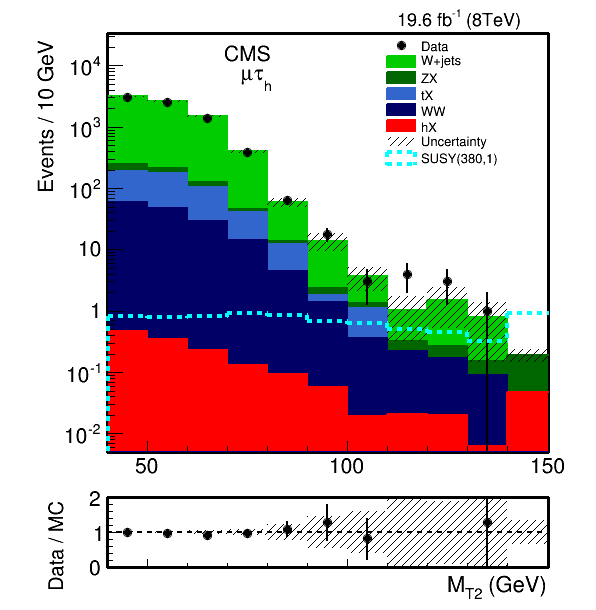
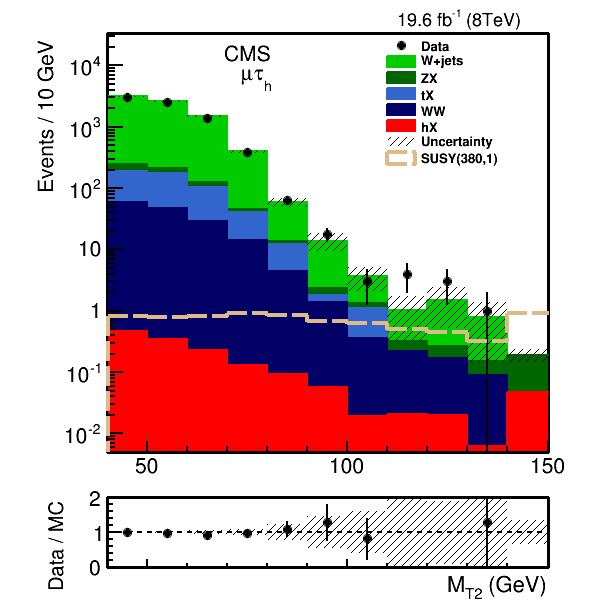
SUSY in Fig2 updated.

diff --git a/papers/SUS-14-022/trunk/SelectionEleTau/MT2_eletau.C b/papers/SUS-14-022/trunk/SelectionEleTau/MT2_eletau.C
@@ -489,8 +489,8 @@
    MT2PreCut_MT2_SUSY_380_120__8->SetBinError(11,0.03064086);
    MT2PreCut_MT2_SUSY_380_120__8->SetBinError(12,0.05165145);
    MT2PreCut_MT2_SUSY_380_120__8->SetEntries(2179);
-   MT2PreCut_MT2_SUSY_380_120__8->SetLineColor(7);
-   MT2PreCut_MT2_SUSY_380_120__8->SetLineStyle(7);
+   MT2PreCut_MT2_SUSY_380_120__8->SetLineColor(42);
+   MT2PreCut_MT2_SUSY_380_120__8->SetLineStyle(9);
    MT2PreCut_MT2_SUSY_380_120__8->SetLineWidth(4);
    MT2PreCut_MT2_SUSY_380_120__8->SetMarkerStyle(20);
    MT2PreCut_MT2_SUSY_380_120__8->SetMarkerSize(2);

diff --git a/papers/SUS-14-022/trunk/SelectionMuTau/MT2_mutau.C b/papers/SUS-14-022/trunk/SelectionMuTau/MT2_mutau.C
@@ -493,8 +493,8 @@
    h_susy->SetBinError(11,0.06930998);
    h_susy->SetBinError(12,0.06212784);
    h_susy->SetEntries(2310);
-   h_susy->SetLineColor(7);
-   h_susy->SetLineStyle(7);
+   h_susy->SetLineColor(42);
+   h_susy->SetLineStyle(9);
    h_susy->SetLineWidth(4);
    h_susy->GetXaxis()->SetNdivisions(505);
    h_susy->GetXaxis()->SetLabelFont(42);
